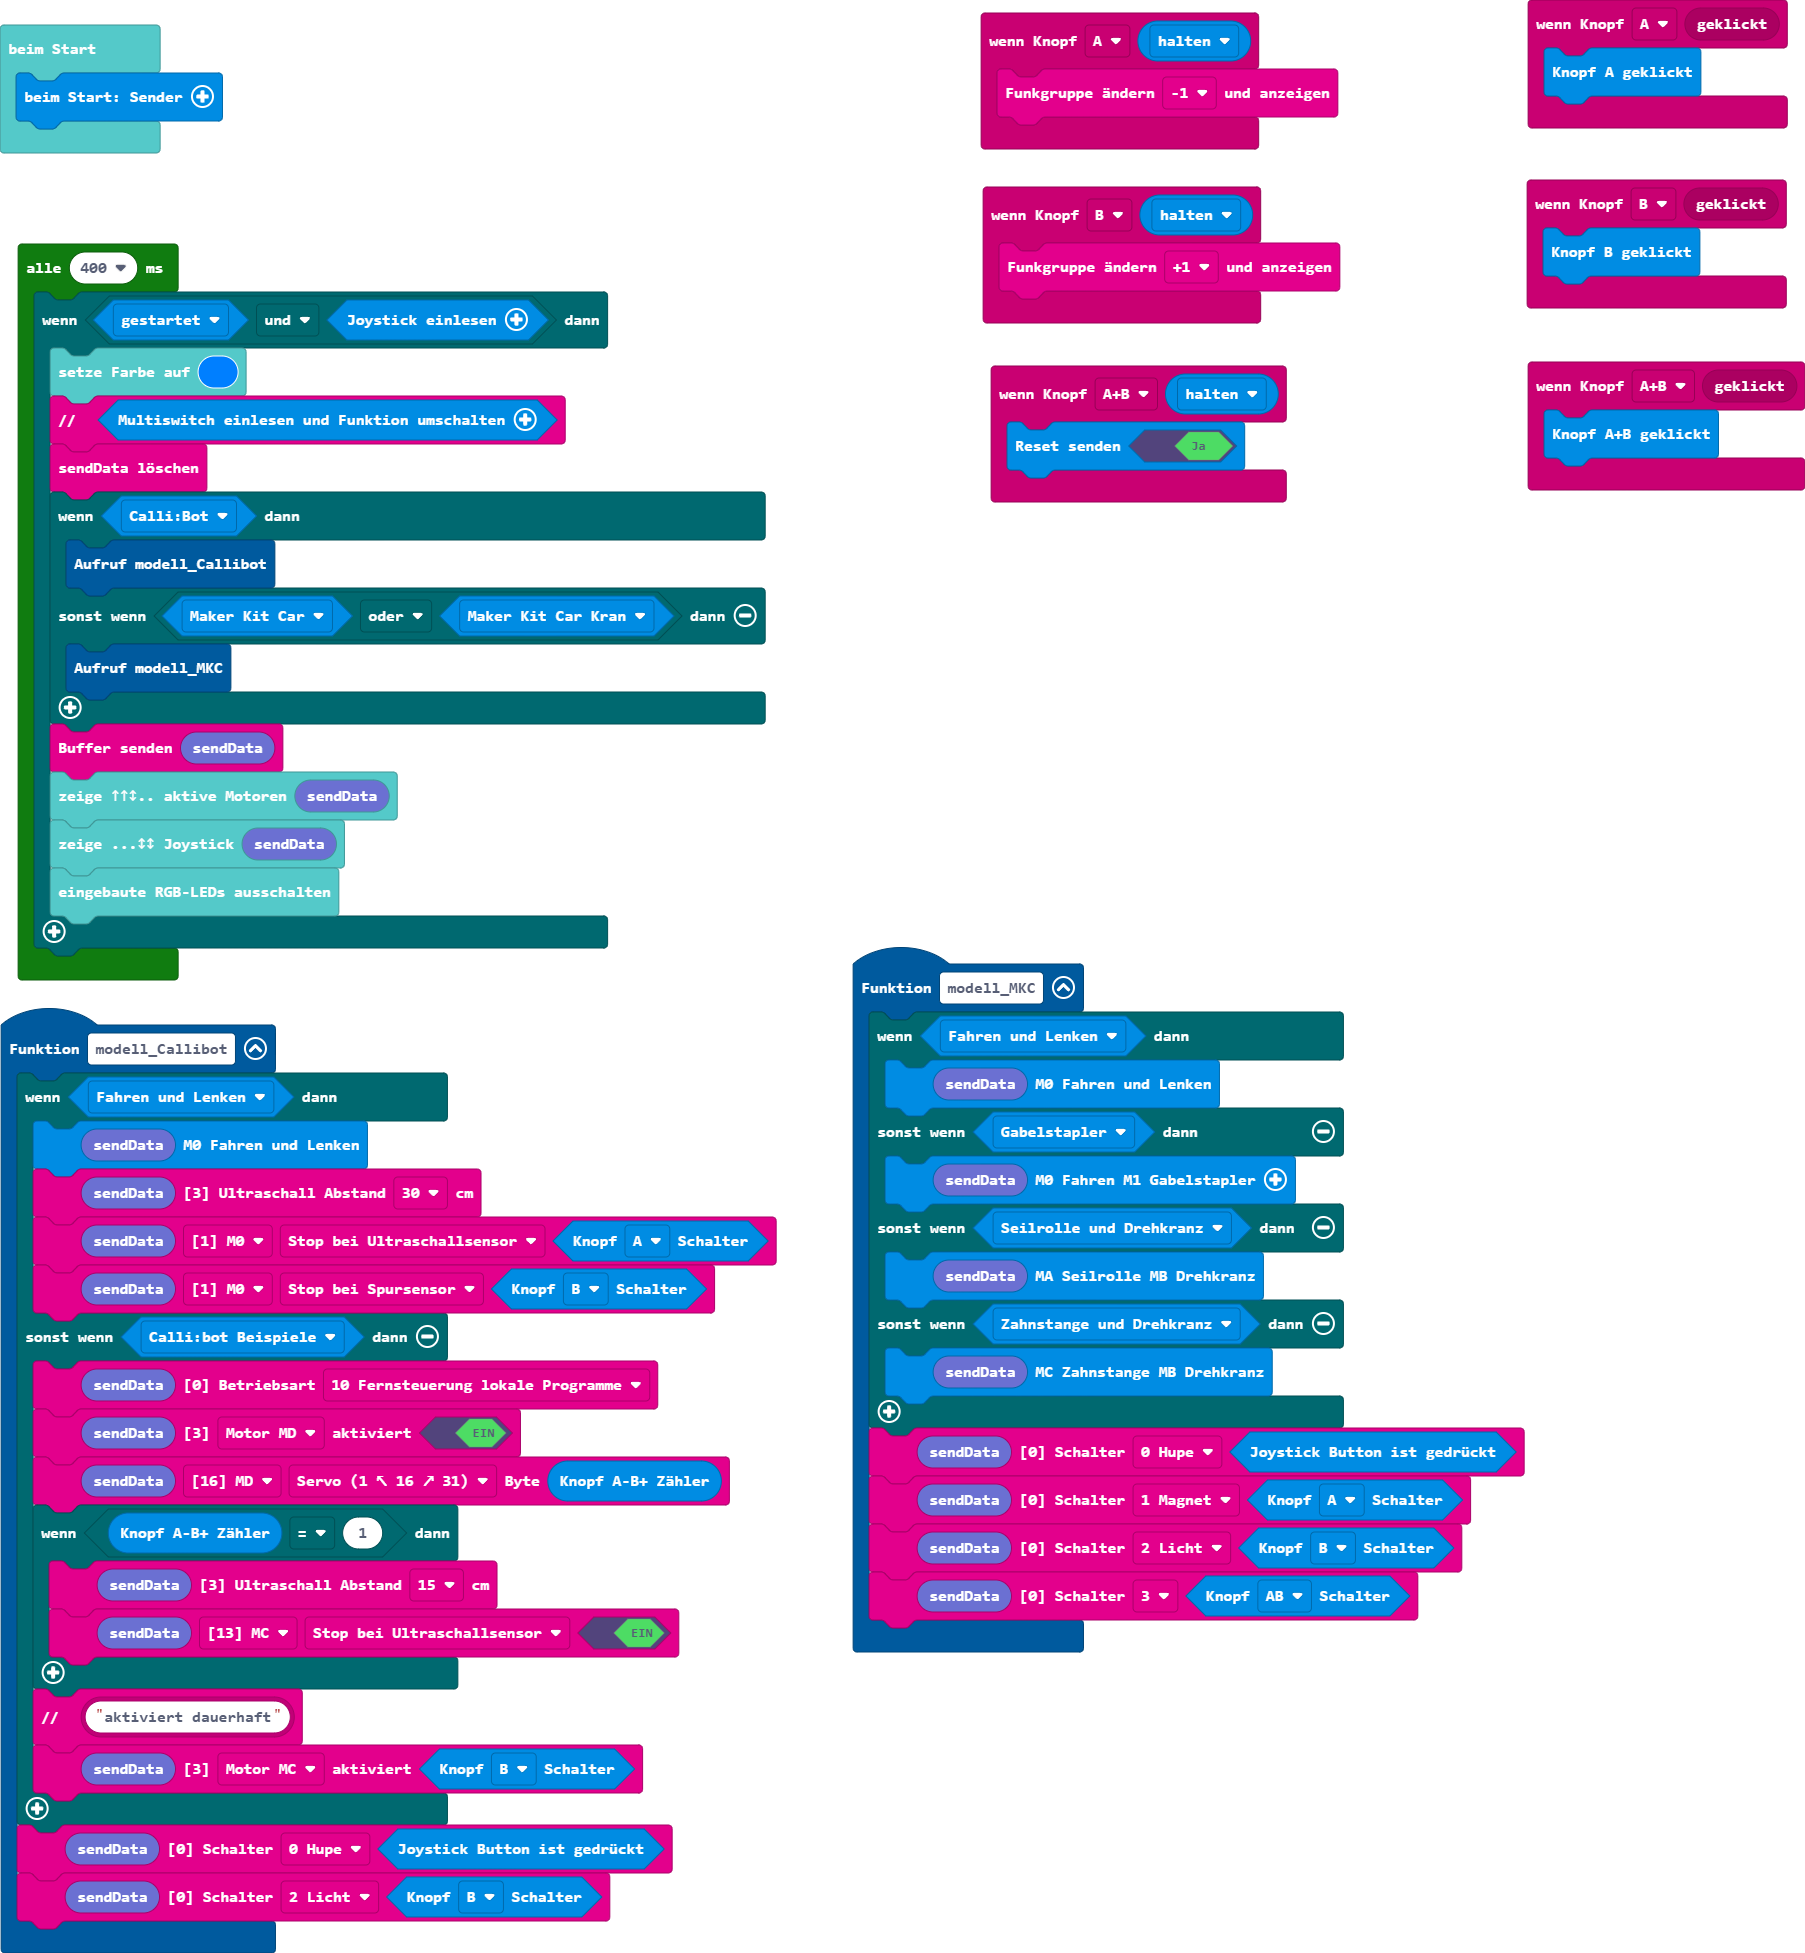
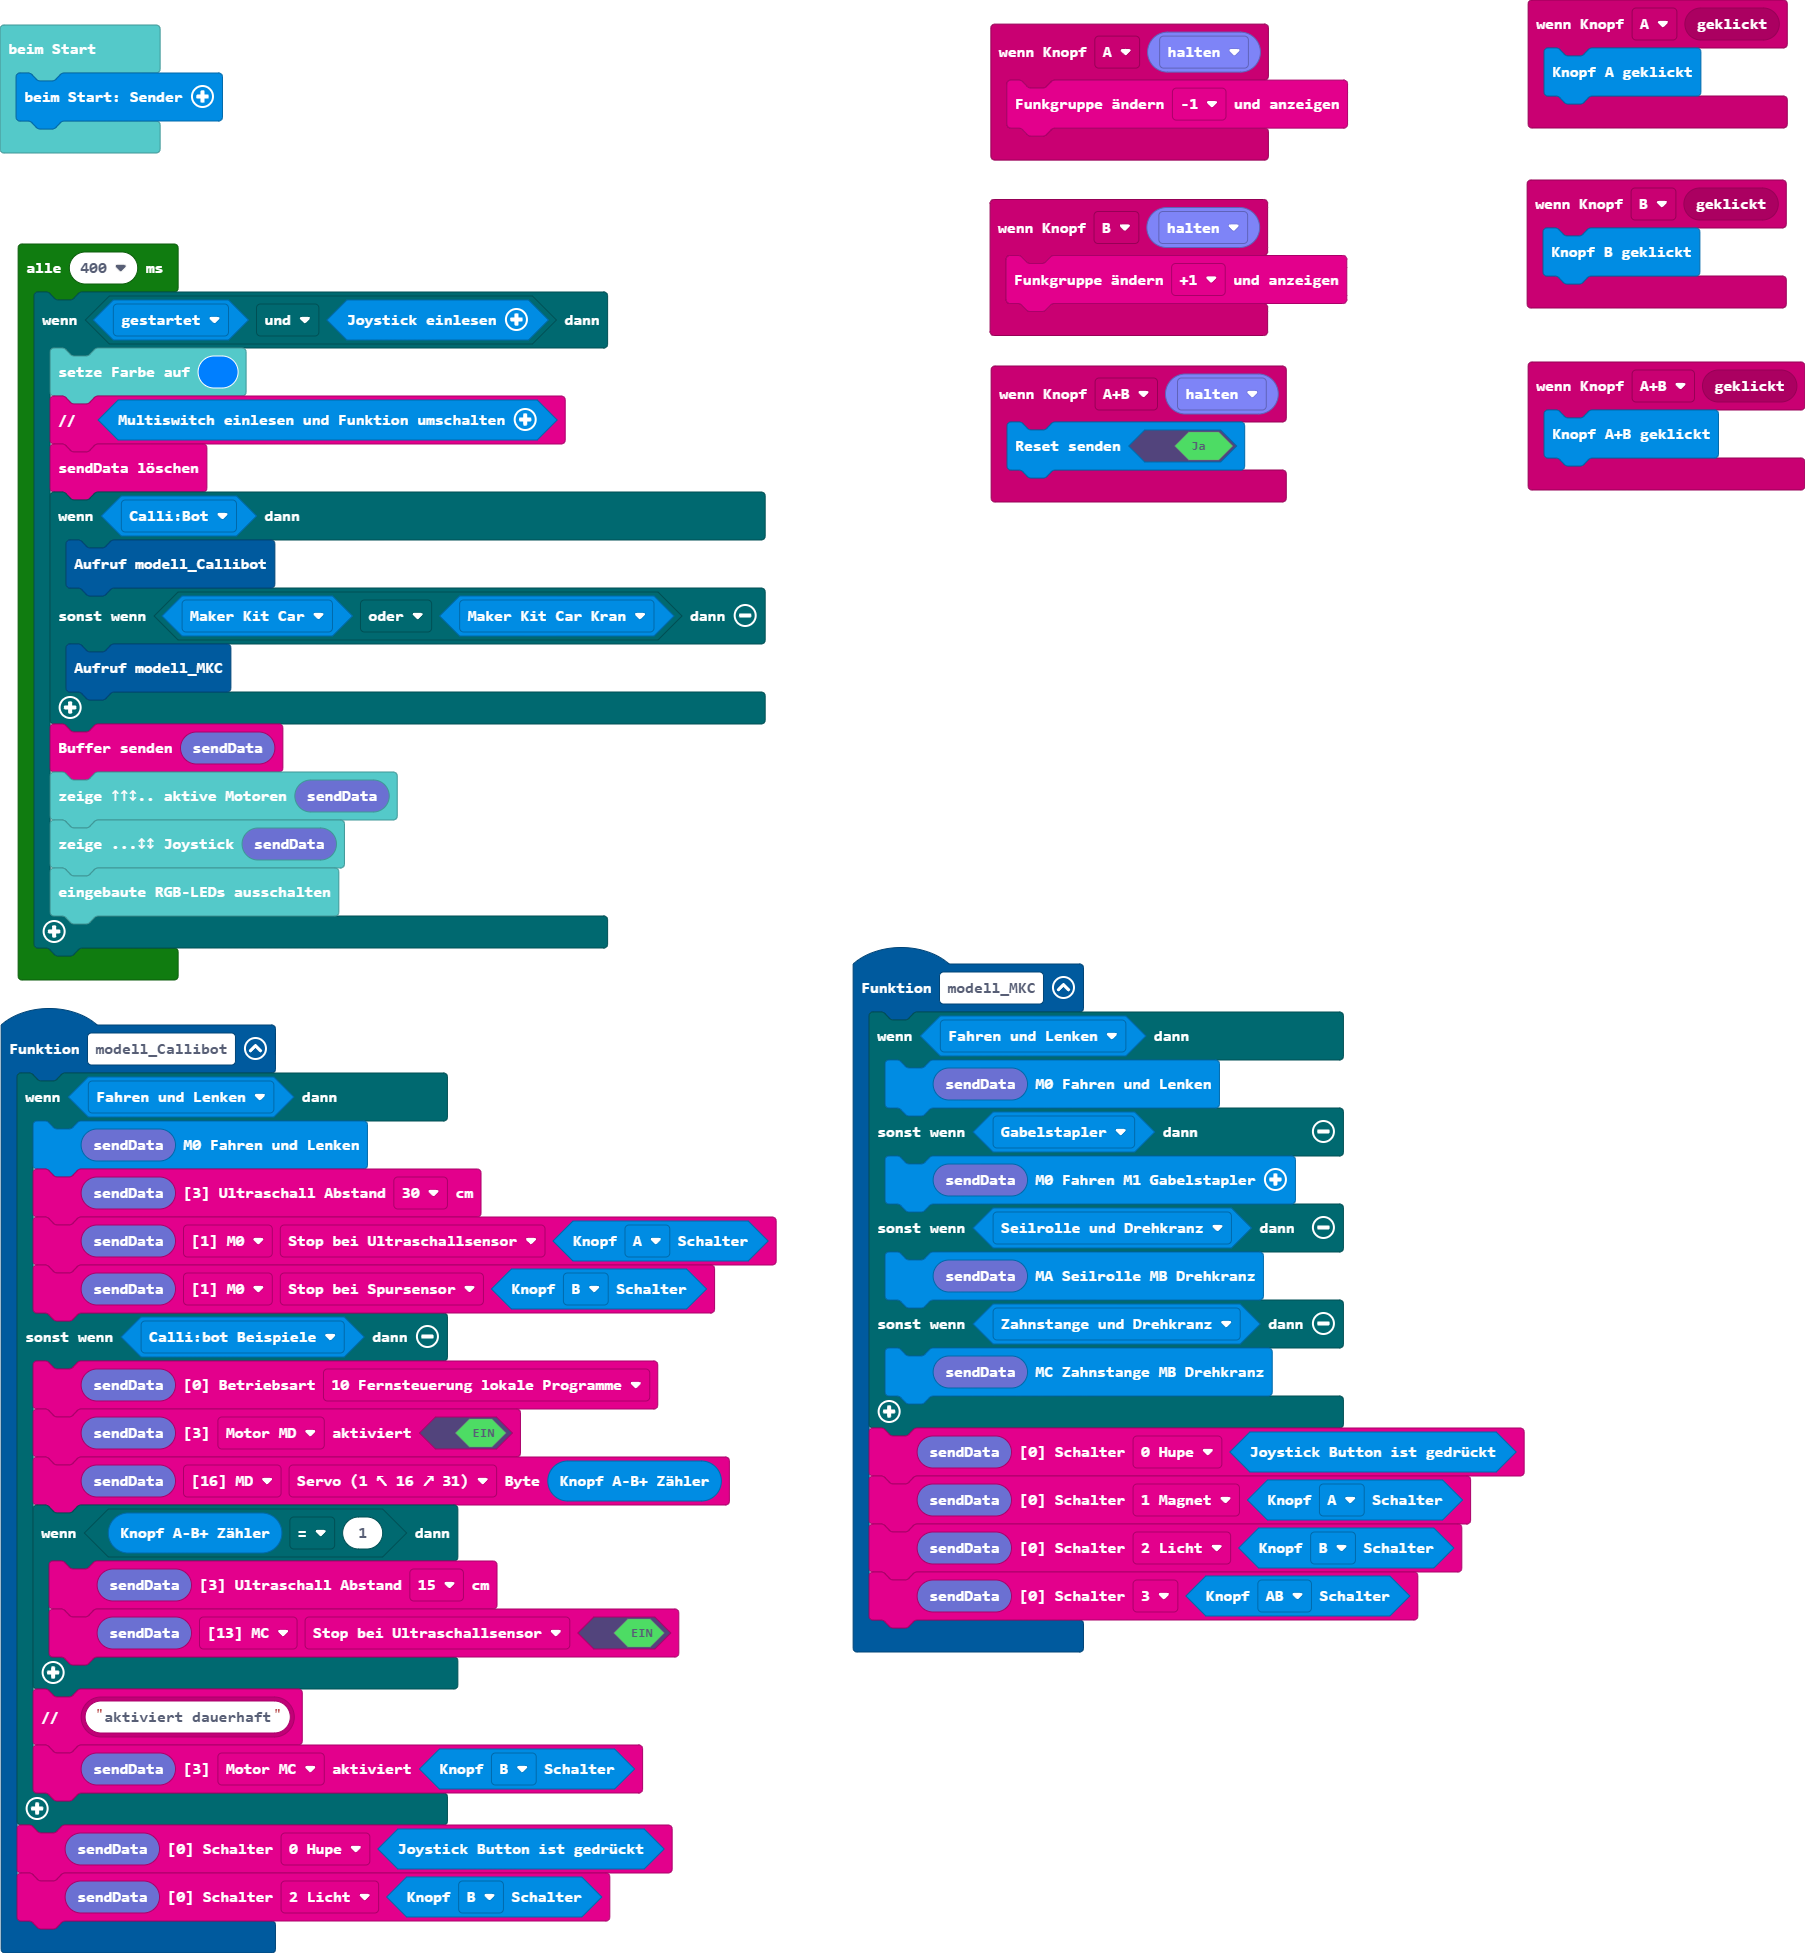
Aktualisiere pxt.json, main.blocks, main.ts

Changed region(s): [[0.5274, 0.0, 0.7446, 0.2186]]

diff --git a/main.ts b/main.ts
@@ -18,23 +18,20 @@ function modell_Callibot () {
     btf.setSchalter(btf.btf_sendBuffer19(), btf.e0Schalter.b0, sender.joystickButtonPosition())
     btf.setSchalter(btf.btf_sendBuffer19(), btf.e0Schalter.b2, sender.getButtonAB_Switch(sender.eButtonAB_Switch.B))
 }
+input.onButtonEvent(Button.AB, btf.buttonEventValue(ButtonEvent.Hold), function () {
+    sender.setSendReset(true)
+})
 input.onButtonEvent(Button.A, input.buttonEventClick(), function () {
     sender.buttonA()
 })
 input.onButtonEvent(Button.AB, input.buttonEventClick(), function () {
     sender.buttonAB()
 })
-input.onButtonEvent(Button.B, sender.buttonEventValue(ButtonEvent.Hold), function () {
-    btf.setFunkgruppeButton(btf.eFunkgruppeButton.plus)
-})
 input.onButtonEvent(Button.B, input.buttonEventClick(), function () {
     sender.buttonB()
 })
-input.onButtonEvent(Button.AB, sender.buttonEventValue(ButtonEvent.Hold), function () {
-    sender.setSendReset(true)
-})
-input.onButtonEvent(Button.A, sender.buttonEventValue(ButtonEvent.Hold), function () {
-    btf.setFunkgruppeButton(btf.eFunkgruppeButton.minus)
+input.onButtonEvent(Button.B, btf.buttonEventValue(ButtonEvent.Hold), function () {
+    btf.setFunkgruppeButton(btf.eFunkgruppeButton.plus)
 })
 function modell_MKC () {
     if (sender.isFunktion(sender.eFunktion.m0_s0)) {
@@ -51,6 +48,9 @@ function modell_MKC () {
     btf.setSchalter(btf.btf_sendBuffer19(), btf.e0Schalter.b2, sender.getButtonAB_Switch(sender.eButtonAB_Switch.B))
     btf.setSchalter(btf.btf_sendBuffer19(), btf.e0Schalter.b3, sender.getButtonAB_Switch(sender.eButtonAB_Switch.AB))
 }
+input.onButtonEvent(Button.A, btf.buttonEventValue(ButtonEvent.Hold), function () {
+    btf.setFunkgruppeButton(btf.eFunkgruppeButton.minus)
+})
 sender.beimStart()
 loops.everyInterval(400, function () {
     if (sender.isFunktion(sender.eFunktion.ng) && sender.joystickQwiic()) {
